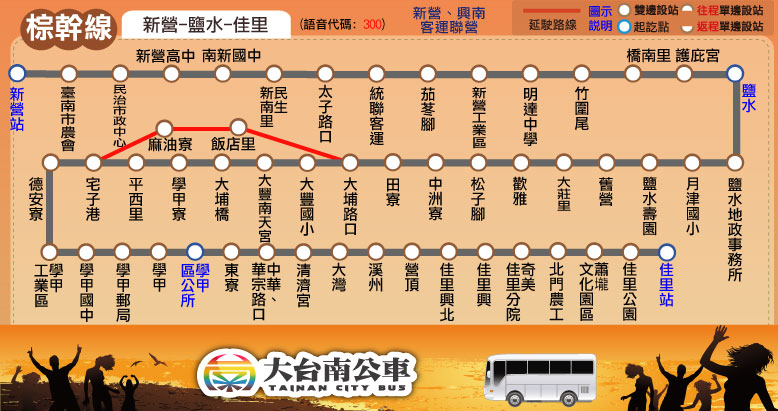
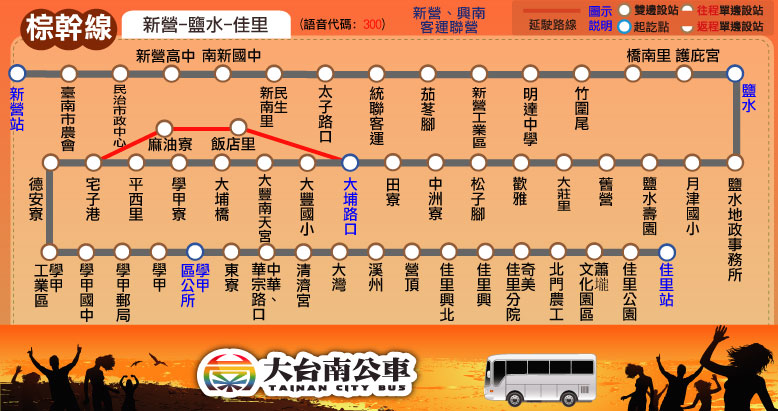
更新時刻表：棕幹線

diff --git a/route/fare_and_time/brown.js b/route/fare_and_time/brown.js
@@ -34,23 +34,24 @@ brown_fare = [
 // format = [time at the start stop] or
 // [time, other] or
 // [time, start_stop, end_stop, other]
-brown_main_stop_name = ["新營站","民治<br />市政中心","統聯<br />客運","鹽水","歡雅","大豐<br />南天宮","麻油寮","學甲","學甲<br />區公所","奇美<br />佳里分院","佳里站"];
-brown_main_stop_time_consume = [0, 3, 8, 18, 26, 33, 33, 43, 44, 53, 60];
+brown_main_stop_name = ["新營站","民治<br />市政中心","統聯<br />客運","鹽水","大埔<br />路口","大豐<br />南天宮","麻油寮","學甲","學甲<br />區公所","奇美<br />佳里分院","佳里站"];
+brown_main_stop_time_consume = [0, 3, 8, 18, 28, 33, 33, 43, 44, 53, 60];
 brown_important_stop = [0, 3, 7, 10]; // 新營站, 鹽水, 學甲, 佳里站
 var Sinying = 0; // 新營站
 var Yanshuei = 3; // 鹽水
+var DapuRd = 4; // 大埔路口
 var skip_stop_1 = 5; // 大豐南天宮
 var skip_stop_2 = 6; // 麻油寮
 var Syuejia = 7; // 學甲
 var Syuejia_District_Office = 8; // 學甲區公所
 var Jiali = 10; // 佳里站
-brown_time_go = [["05:50",Sinying,Syuejia_District_Office,[skip_stop_1,[Yanshuei,-3,Syuejia,-6]]],["05:55",[skip_stop_1,[Yanshuei,-3,Syuejia_District_Office,1,Jiali,2]]],["06:00",Sinying,Yanshuei,['L',[Yanshuei,-3]]],["06:05",[skip_stop_2,'L',[Yanshuei,-3,Syuejia_District_Office,1,Jiali,2]]],["06:10",Sinying,Syuejia_District_Office,[skip_stop_1,[Yanshuei,-3,Syuejia,-1]]],["06:35",[skip_stop_1,'L']],["07:05",[skip_stop_2,[Yanshuei,2,Syuejia,-1,Jiali,-1]]],["07:35",[skip_stop_2]],["08:05",[skip_stop_1]],["08:35",[skip_stop_2]],["09:05",[skip_stop_2,[Syuejia,-3,Jiali,3]]],["09:35",[skip_stop_2,'L',[Syuejia,-3,Jiali,3]]],
+brown_time_go = [["05:40",Sinying,DapuRd,[[Yanshuei,-3]]],["05:50",Sinying,Syuejia_District_Office,[skip_stop_1,[Yanshuei,-3,Syuejia,-6]]],["05:55",[skip_stop_1,[Yanshuei,-3,Syuejia_District_Office,1,Jiali,2]]],["06:00",Sinying,Yanshuei,['L',[Yanshuei,-3]]],["06:05",[skip_stop_2,'L',[Yanshuei,-3,Syuejia_District_Office,1,Jiali,2]]],["06:10",Sinying,Syuejia_District_Office,[skip_stop_1,[Yanshuei,-3,Syuejia,-1]]],["06:35",[skip_stop_1,'L']],["07:05",[skip_stop_2,[Yanshuei,2,Syuejia,-1,Jiali,-1]]],["07:35",[skip_stop_2]],["08:05",[skip_stop_1]],["08:35",[skip_stop_2]],["09:05",[skip_stop_2,[Syuejia,-3,Jiali,3]]],["09:35",[skip_stop_2,'L',[Syuejia,-3,Jiali,3]]],
 ["10:05",[skip_stop_1,'L',[Syuejia,-3,Jiali,3]]],["10:35",[skip_stop_2,[Syuejia,-3,Jiali,3]]],["11:05",[skip_stop_2]],["11:35",[skip_stop_2]],["12:05",[skip_stop_2]],["12:35",[skip_stop_1,[Syuejia,-3,Jiali,3]]],["13:05",[skip_stop_2,'L',[Syuejia,-3,Jiali,3]]],["13:35",[skip_stop_1,[Syuejia,-3,Jiali,3]]],["14:05",[skip_stop_2]],["14:35",[skip_stop_1,'L',[Syuejia,-3,Jiali,3]]],
 ["15:05",[skip_stop_2]],["15:20",Sinying,Syuejia_District_Office,[skip_stop_1,[Yanshuei,2,Syuejia,-2,Syuejia_District_Office,1]]],["15:35",[skip_stop_2,'L',[Yanshuei,2,Jiali,3]]],["16:05",[skip_stop_2,'L',[Yanshuei,2,Syuejia,-5,Syuejia_District_Office,1,Jiali,7]]],["16:10",Sinying,Syuejia_District_Office,[skip_stop_1,[Yanshuei,2,Syuejia,-2,Syuejia_District_Office,1]]],["16:35",[skip_stop_2]],["17:00",[skip_stop_1,[Syuejia,-3,Syuejia_District_Office,1,Jiali,2]]],["17:05",Sinying,Yanshuei,[[Yanshuei,7]]],["17:10",[skip_stop_1]],["17:15",[skip_stop_2,[Yanshuei,4,Syuejia,-2,Syuejia_District_Office,1,Jiali,-3]]],["17:35",[skip_stop_2,'L',[Yanshuei,4,Syuejia,-2,Syuejia_District_Office,1,Jiali,-3]]],["18:15",[skip_stop_2,[Yanshuei,2,Syuejia,-5,Jiali,3]]],
 ["19:05",[skip_stop_2]],["20:05",[skip_stop_2]],["21:40",[skip_stop_2,[Yanshuei,-3,Syuejia,-5,Jiali,-2]]]
 ];
-brown_time_return = [["06:30",Yanshuei,Sinying,['L',[Sinying,2]]],["06:00",[skip_stop_2]],["06:35",[skip_stop_1]],["07:05",[skip_stop_2]],["07:20",[skip_stop_1,[Syuejia_District_Office,-2,Yanshuei,-3,Sinying,5]]],["07:35",[skip_stop_2,'L',[Syuejia_District_Office,-2,Yanshuei,-3,Sinying,5]]],["08:00",Syuejia_District_Office,Sinying,[skip_stop_1,[Yanshuei,-4]]],["08:05",[skip_stop_1,'L',[Syuejia_District_Office,-2,Yanshuei,-3,Sinying,5]]],["08:30",Syuejia_District_Office,Sinying,[skip_stop_1,[Yanshuei,-4]]],["08:35",[skip_stop_2,[Syuejia_District_Office,-2,Yanshuei,-3,Sinying,5]]],["09:05",[skip_stop_2]],["09:35",[skip_stop_2]],
-["10:05",[skip_stop_1]],["10:35",[skip_stop_2,[Syuejia_District_Office,-2,Yanshuei,-3,Sinying,5]]],["11:05",[skip_stop_2,'L',[Syuejia_District_Office,-2,Yanshuei,-3,Sinying,5]]],["11:35",[skip_stop_1,'L',[Syuejia_District_Office,-2,Yanshuei,-3,Sinying,5]]],["12:15",[skip_stop_2]],["12:45",[skip_stop_2]],["13:05",[skip_stop_2,[Syuejia_District_Office,-2,Yanshuei,-3,Sinying,5]]],["14:05",[skip_stop_1,[Syuejia_District_Office,-2,Yanshuei,-3,Sinying,5]]],["14:35",[skip_stop_2,'L',[Syuejia_District_Office,-2,Yanshuei,-3,Sinying,5]]],["14:50",[skip_stop_1,[Syuejia_District_Office,-2,Yanshuei,-3,Sinying,5]]],
+brown_time_return = [["06:10",DapuRd,Sinying,[[Yanshuei,5,Sinying,7]]],["06:30",Yanshuei,Sinying,['L',[Sinying,2]]],["06:00",[skip_stop_2]],["06:35",[skip_stop_1]],["07:05",[skip_stop_2]],["07:20",[skip_stop_1,[Syuejia_District_Office,-2,Yanshuei,-3,Sinying,5]]],["07:35",[skip_stop_2,'L',[Syuejia_District_Office,-2,Yanshuei,-3,Sinying,5]]],["08:00",Syuejia_District_Office,Sinying,[skip_stop_1,[Yanshuei,-4]]],["08:05",[skip_stop_1,'L',[Syuejia_District_Office,-2,Yanshuei,-3,Sinying,5]]],["08:30",Syuejia_District_Office,Sinying,[skip_stop_1,[Yanshuei,-4]]],["08:35",[skip_stop_2,[Syuejia_District_Office,-2,Yanshuei,-3,Sinying,5]]],["09:05",[skip_stop_2]],["09:35",[skip_stop_2]],
+["10:05",[skip_stop_1]],["10:35",[skip_stop_2,[Syuejia_District_Office,-2,Yanshuei,-3,Sinying,5]]],["11:05",[skip_stop_2,'L',[Syuejia_District_Office,-2,Yanshuei,-3,Sinying,5]]],["11:35",[skip_stop_1,'L',[Syuejia_District_Office,-2,Yanshuei,-3,Sinying,5]]],["12:15",[skip_stop_2]],["12:45",[skip_stop_2]],["13:05",[skip_stop_2,[Syuejia_District_Office,-2,Yanshuei,-3,Sinying,5]]],["13:45",[skip_stop_1,[Syuejia_District_Office,-2,Yanshuei,-3,Sinying,5]]],["14:15",[skip_stop_2,'L',[Syuejia_District_Office,-2,Yanshuei,-3,Sinying,5]]],["14:45",[skip_stop_1,[Syuejia_District_Office,-2,Yanshuei,-3,Sinying,5]]],
 ["15:05",[skip_stop_2]],["15:35",[skip_stop_2]],["16:05",[skip_stop_1,'L']],["16:35",[skip_stop_2]],["17:40",Yanshuei,Sinying,[[Sinying,7]]],["17:05",[skip_stop_2,'L',[Syuejia_District_Office,2,Syuejia,1,Sinying,7]]],["17:35",[skip_stop_2,'L',[Syuejia_District_Office,1,Syuejia,1,Yanshuei,-7,Sinying,5]]],["18:00",Syuejia_District_Office,Sinying,[skip_stop_1,[Yanshuei,-3,Sinying,4]]],["18:15",Syuejia_District_Office,Sinying,[skip_stop_1,[Yanshuei,-3,Sinying,4]]],["18:05",[skip_stop_1]],
-["18:15",[skip_stop_1,[Syuejia_District_Office,-2,Yanshuei,-3,Sinying,5]]],["18:35",[skip_stop_2,[Syuejia_District_Office,-2,Yanshuei,-3,Sinying,5]]],["19:05",[skip_stop_2,'L',[Syuejia_District_Office,-2,Yanshuei,-3,Sinying,5]]],["20:15",[skip_stop_2,[Syuejia_District_Office,-2,Yanshuei,-5,Sinying,-3]]],["22:35",[skip_stop_2,[Syuejia_District_Office,-5,Yanshuei,-6,Sinying,1]]]
+["18:15",[skip_stop_1,[Syuejia_District_Office,-2,Yanshuei,-3,Sinying,5]]],["18:35",[skip_stop_2,[Syuejia_District_Office,-2,Yanshuei,-3,Sinying,5]]],["19:05",[skip_stop_2,'L',[Syuejia_District_Office,-2,Yanshuei,-3,Sinying,5]]],["20:15",[skip_stop_2,[Syuejia_District_Office,-2,Yanshuei,-5,Sinying,-3]]],["22:30",[skip_stop_2,[Syuejia_District_Office,-5,Yanshuei,-6,Sinying,1]]]
 ];
